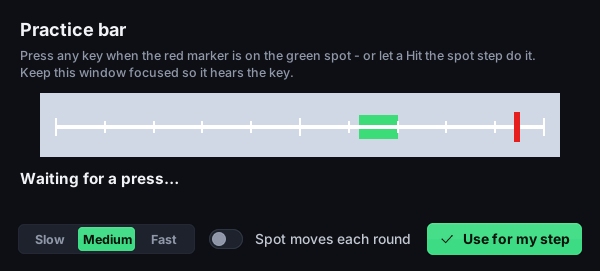
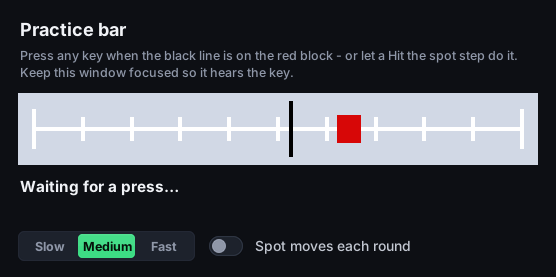
Hit the spot: black line on a red block by default; redraw practice bar
Matches the timing meter from the user's game: a thin black line sweeps
over a white tick bar and the key should be pressed when it is on the red
block.

- New Hit the spot steps default to a black marker and a red spot found by
  colour (so it also works when the block moves each round)
- Practice bar redrawn in that style: white track and ticks, red block,
  thin black line
- Tests: black-on-red meter at two speeds, defaults, and detection on the
  measured layout of the real screenshot (75 total). Real key presses
  against the redrawn practice bar: 30/30 on the block

Claude-Session: https://claude.ai/code/session_01EE8kJS7vkW426JzBujmRVY

diff --git a/VoidVision/src/voidvision/practice.py b/VoidVision/src/voidvision/practice.py
@@ -1,7 +1,7 @@
 """A redrawn timing bar to practise against and to test Hit the spot steps.
 
-A clean white track with ticks, a red marker sweeping back and forth and a
-green spot. Press any key while it has focus and it reports how close the
+A clean white track with ticks, a red block marking the spot and a thin
+black marker sweeping back and forth across it. Press any key while it has focus and it reports how close the
 press was - exactly what a "Hit the spot" step should achieve in a game.
 """
 
@@ -12,10 +12,10 @@ import tkinter as tk
 from . import theme
 from . import widgets as w
 
-BAR_W, BAR_H = 520, 64
-TRACK_Y = 34
-MARKER = (230, 30, 30)
-SPOT = (60, 220, 120)
+BAR_W, BAR_H = 520, 72
+TRACK_Y = 36
+MARKER = (0, 0, 0)        # the moving line
+SPOT = (215, 7, 7)        # the block to hit
 SPEEDS = {"slow": 0.35, "medium": 0.7, "fast": 1.3}    # bar widths per second
 
 
@@ -34,14 +34,14 @@ class PracticeBar(tk.Toplevel):
         self.pos, self.dir = 0.0, 1
         self.shown, self.shown_dir = 0.0, 1    # the marker as last drawn on screen
         self.stutter = 0.0                     # longest gap between redraws lately
-        self.zone = [0.62, 0.70]
+        self.zone = [0.62, 0.67]
         self.hits = self.tries = 0
         self._last = time.perf_counter()
 
         body = tk.Frame(self, bg=theme.BG)
         body.pack(padx=18, pady=16)
         w.label(body, "Practice bar", size=13, bold=True).pack(anchor="w")
-        w.label(body, "Press any key when the red marker is on the green spot - or let a "
+        w.label(body, "Press any key when the black line is on the red block - or let a "
                       "Hit the spot step do it. Keep this window focused so it hears the key.",
                 muted=True, size=9, wraplength=BAR_W, justify="left").pack(anchor="w",
                                                                          pady=(2, 10))
@@ -76,17 +76,20 @@ class PracticeBar(tk.Toplevel):
         c.delete("all")
         x0, x1 = 16, BAR_W - 16
         span = x1 - x0
-        zx0, zx1 = x0 + self.zone[0] * span, x0 + self.zone[1] * span
-        c.create_rectangle(zx0, TRACK_Y - 12, zx1, TRACK_Y + 12, fill=_hex(SPOT), outline="")
+        # White track with ticks: tall ones at the ends, short ones between.
         c.create_rectangle(x0, TRACK_Y - 2, x1, TRACK_Y + 2, fill="white", outline="")
         for i in range(11):
             tx = x0 + span * i / 10
-            tall = 9 if i in (0, 5, 10) else 6
-            c.create_rectangle(tx - 1, TRACK_Y - tall, tx + 1, TRACK_Y + tall, fill="white",
+            tall = 20 if i in (0, 10) else 12
+            c.create_rectangle(tx - 2, TRACK_Y - tall, tx + 2, TRACK_Y + tall, fill="white",
                                outline="")
+        # The spot: a red block sitting on the track.
+        zx0, zx1 = x0 + self.zone[0] * span, x0 + self.zone[1] * span
+        c.create_rectangle(zx0, TRACK_Y - 14, zx1, TRACK_Y + 14, fill=_hex(SPOT), outline="")
+        # The marker: a thin black line, taller than everything else.
         self.shown, self.shown_dir = self.pos, self.dir
         mx = x0 + self.pos * span
-        c.create_rectangle(mx - 3, TRACK_Y - 15, mx + 3, TRACK_Y + 15, fill=_hex(MARKER),
+        c.create_rectangle(mx - 2, TRACK_Y - 28, mx + 2, TRACK_Y + 28, fill=_hex(MARKER),
                            outline="")
 
     def _tick(self):

diff --git a/VoidVision/tests/test_core.py b/VoidVision/tests/test_core.py
@@ -720,8 +720,9 @@ class SimulatedBar:
 
 
 def timing_step(**kw):
+    # The simulated bar draws a red marker and (optionally) a green spot.
     params = dict(region=[0, 0, 200, 30], zone=[0.6, 0.66], lead_ms=0, timeout=5.0,
-                  combo="space")
+                  combo="space", marker_rgb=[230, 30, 30], zone_mode="fixed")
     params.update(kw)
     return Step.create("timing", **params)
 
@@ -873,6 +874,48 @@ class TimingTests(unittest.TestCase):
         msg, presses = self._run(bar, timing_step(timeout=0.5))
         self.assertIn("failed", msg)
         self.assertEqual(presses, [])
+
+    def test_defaults_are_black_line_on_red_block(self):
+        step = Step.create("timing")
+        self.assertEqual(step.get("marker_rgb"), [0, 0, 0])
+        self.assertEqual(step.get("zone_mode"), "color")
+        self.assertEqual(step.get("zone_rgb"), [215, 7, 7])
+
+    def test_black_line_over_red_block(self):
+        # The meter style from a real game: a thin black line sweeping over a
+        # white tick bar, pressed when it's on the red block. The line covers
+        # part of the block as it crosses, which must not hide the block.
+        class BlackOnRed(SimulatedBar):
+            def grab_fast(self, region):
+                img = Image.new("RGB", (self.W, self.H), (120, 200, 90))
+                d = ImageDraw.Draw(img)
+                d.rectangle([0, 13, self.W, 16], fill=(255, 255, 255))
+                x0, x1 = (int(v * (self.W - 1)) for v in self.spot)
+                d.rectangle([x0, 8, x1, 21], fill=(215, 7, 7))
+                mx = int(round(self.pos * (self.W - 1)))
+                d.rectangle([mx - 1, 1, mx, 29], fill=(0, 0, 0))
+                self._advance(self.frame)
+                return Shot(img, 0, 0, 1.0)
+            grab = grab_fast
+
+        for speed in (0.4, 1.0):
+            bar = BlackOnRed(speed=speed, frame=0.01, start=0.05, spot=(0.62, 0.66))
+            step = Step.create("timing", region=[0, 0, 200, 30], lead_ms=0, timeout=5.0)
+            _, presses = self._run(bar, step)
+            self.assertTrue(0.62 <= presses[0][1] <= 0.66, (speed, presses))
+
+    def test_reads_the_real_screenshot_style(self):
+        # Measured on a real screenshot of this meter (221 px wide): black
+        # line at 136 px, red block from 138 px - just about to hit.
+        img = Image.new("RGB", (221, 54), (110, 190, 80))
+        d = ImageDraw.Draw(img)
+        d.rectangle([24, 19, 189, 22], fill=(255, 255, 255))
+        d.rectangle([138, 13, 147, 25], fill=(215, 7, 7))
+        d.rectangle([136, 5, 137, 34], fill=(0, 0, 0))
+        self.assertAlmostEqual(matcher.marker_position(img, (0, 0, 0)) * 220, 136.5, delta=0.6)
+        lo, hi = matcher.zone_span(img, (215, 7, 7), bridge_rgb=(0, 0, 0))
+        self.assertAlmostEqual(lo * 220, 138, delta=0.6)
+        self.assertAlmostEqual(hi * 220, 147, delta=0.6)
 
     def test_needs_a_bar_area(self):
         flow = Flow()

diff --git a/VoidVision/src/voidvision/model.py b/VoidVision/src/voidvision/model.py
@@ -103,10 +103,12 @@ KINDS = {
         "label": "Hit the spot",
         "group": "vision",
         "fields": [("region", "Bar area", "region", None, None),
-                   ("marker_rgb", "Marker colour", "color", [230, 30, 30], None),
-                   ("zone_mode", "The spot is", "choice", "fixed", ["fixed", "color"]),
+                   # Defaults match the common meter: a black line sweeping
+                   # over a bar, pressed when it's on a red block.
+                   ("marker_rgb", "Marker colour", "color", [0, 0, 0], None),
+                   ("zone_mode", "The spot is", "choice", "color", ["fixed", "color"]),
                    ("zone", "Spot", "zone", [0.45, 0.55], None),
-                   ("zone_rgb", "Spot colour", "color", [60, 220, 120], None),
+                   ("zone_rgb", "Spot colour", "color", [215, 7, 7], None),
                    ("tolerance", "Colour range", "int", 40, None),
                    ("combo", "Then press", "key", "space", None),
                    ("lead_ms", "Press early (ms)", "int", 25, None),

diff --git a/VoidVision/README.md b/VoidVision/README.md
@@ -104,12 +104,13 @@ the spot - add More > Hit the spot:
 
 1. Bar area: click the area button and drag around the bar. This step only
    ever looks at that area, so it can look many times a second.
-2. Marker colour: use the dropper on the marker (default red).
+2. Marker colour: the moving line. Defaults to black; use the dropper if
+   yours is another colour.
 3. The spot is:
+     A colour     (default) the spot is a coloured block - red by default -
+                  and may move each round; it's found on every look, even
+                  while the marker is crossing it
      Fixed place  drag across the drawing of the bar to mark the spot
-     A colour     the spot is drawn in its own colour (e.g. green) and may
-                  move each round; pick that colour and it's found on
-                  every look
 4. Then press: the key, e.g. space (or press Record and hit it).
 5. Test shows where it sees the marker right now, drawn on the bar.
 
@@ -124,14 +125,15 @@ Loop the flow with a short Wait after the step to keep hitting round after
 round.
 
 Practice bar: the lightning button on a Hit the spot step opens a redrawn
-practice bar - a white track with ticks, a sweeping red marker and a green
-spot. It scores every key press ("Hit - 3 ms from the centre"). "Use for my
+practice bar - a white track with ticks, a red block to hit and a thin black
+line sweeping across it. It scores every key press ("Hit - 3 ms from the centre"). "Use for my
 step" points the step at it, so you can press Run and watch the step play.
 Keep the practice bar focused so it hears the key.
 
-Tested with real key presses against the practice bar: 45 of 45 presses on
-the spot across slow, medium and fast speeds, fixed and moving spots,
-typically within a few milliseconds of the centre.
+Tested with real key presses against the practice bar: every press on the
+spot (75 of 75 across the red/green and black-on-red styles) at slow, medium
+and fast speeds, fixed and moving spots, typically within a few
+milliseconds of the centre.
 
 
 STEPS

diff --git a/TESTING.md b/TESTING.md
@@ -23,7 +23,7 @@ pip install pynput pillow numpy
 | Order | Suite       | Where the code is                 | Size        |
 |-------|-------------|-----------------------------------|-------------|
 | 1     | Void Click  | `Voidclick1.0.0.zip` (unpacked to a temp folder) | 196 checks |
-| 2     | Void Vision | `VoidVision/tests/`               | 72 tests    |
+| 2     | Void Vision | `VoidVision/tests/`               | 75 tests    |
 
 Neither suite moves your real mouse or presses real keys. Input is replaced by stand-ins, so it's safe to run while you use the computer.
 
@@ -43,7 +43,7 @@ The last lines are a summary:
 
 ```
   [PASS] Void Click   196 passed, 0 failed  (9.9s)
-  [PASS] Void Vision  72 tests, all OK  (5.6s)
+  [PASS] Void Vision  75 tests, all OK  (5.6s)
 
   All suites passed.
 ```
